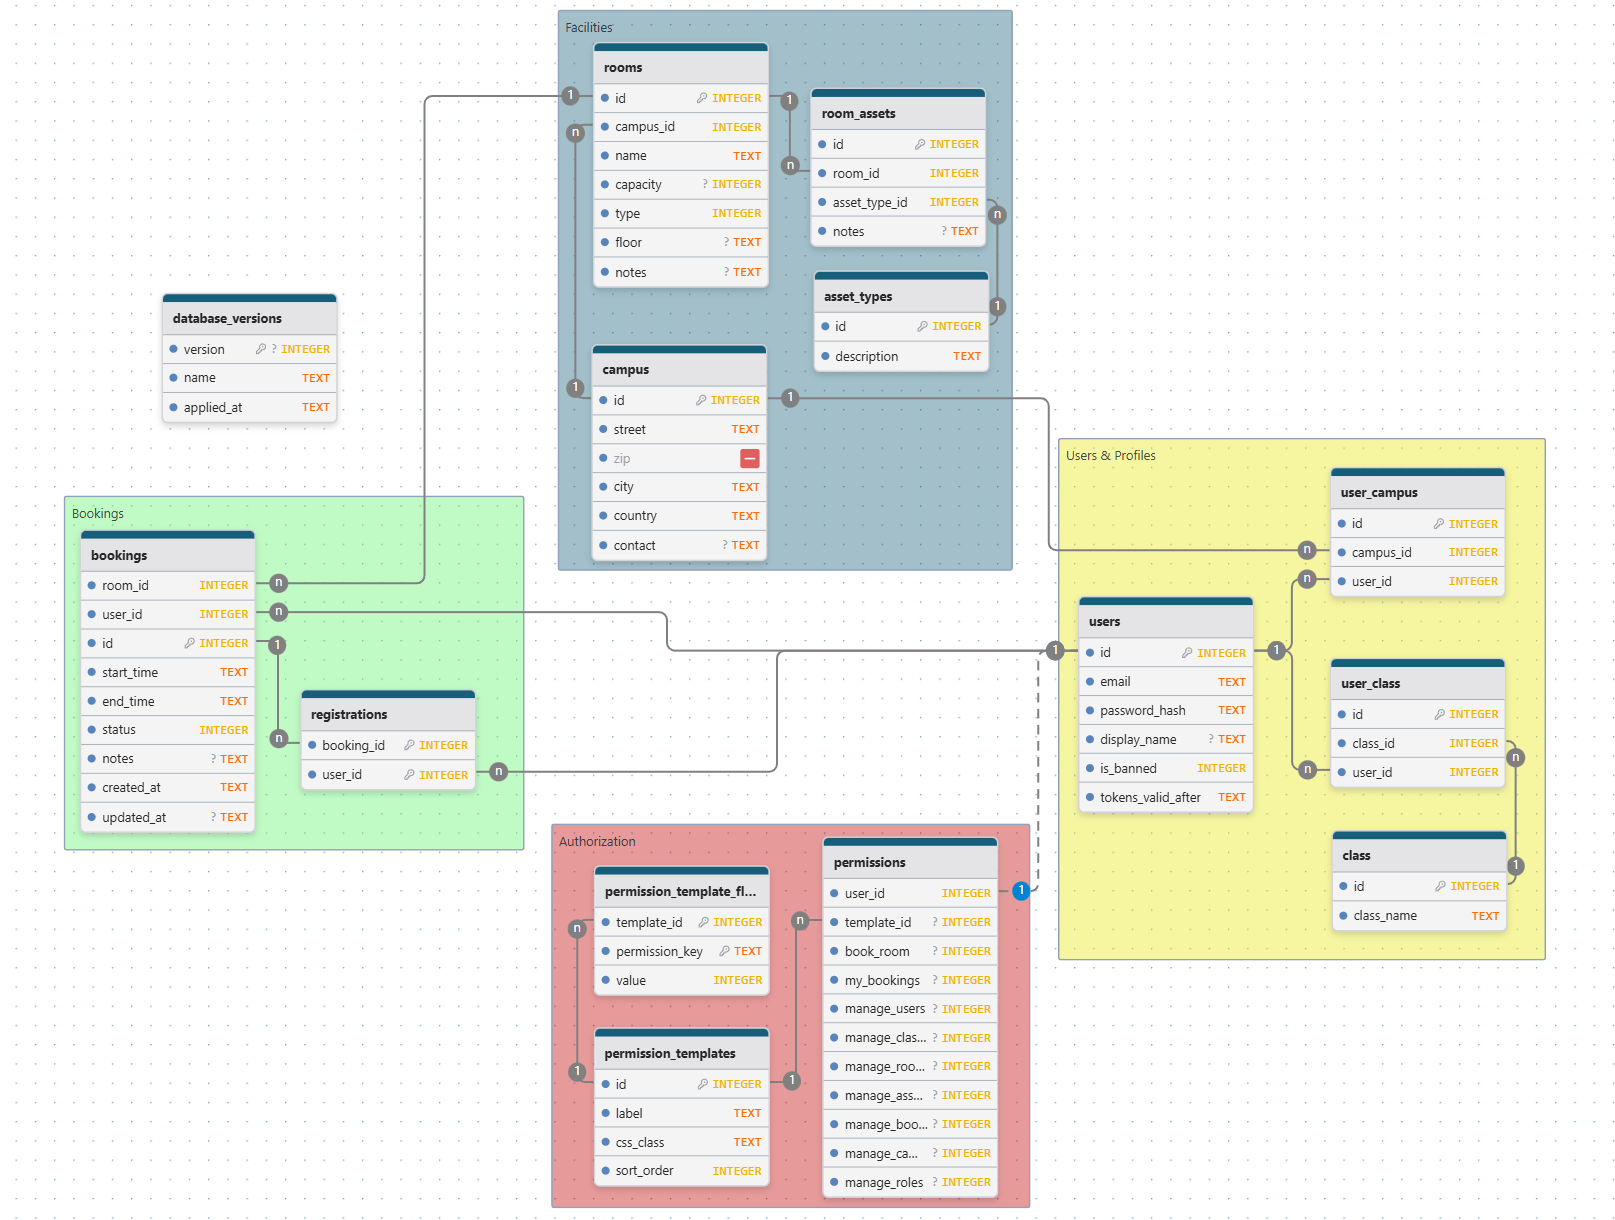
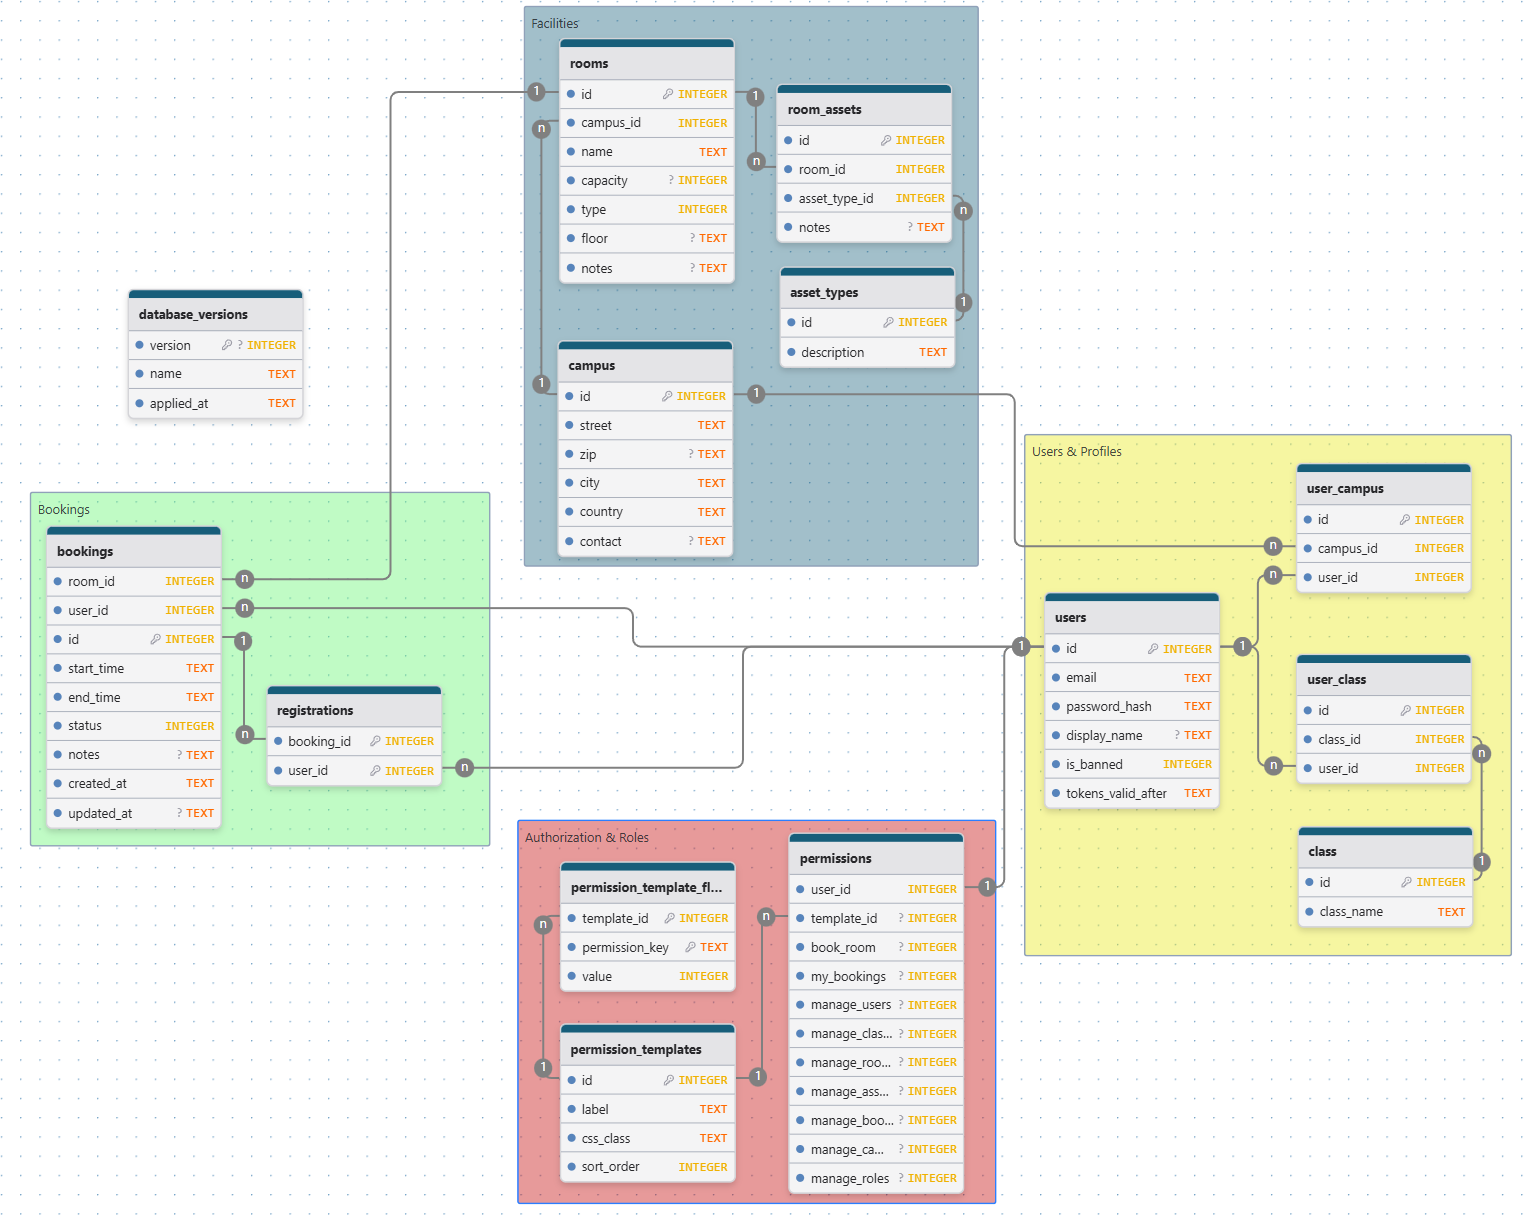
feat: Update database documentation and replace permissions management image

Changed region(s): [[0.0, 0.0, 0.9974, 1.0], [0.0623, 0.2132, 0.2182, 0.3654]]

diff --git a/Backend/_docs/details/DATABASE_DOC.md b/Backend/_docs/details/DATABASE_DOC.md
@@ -31,77 +31,5 @@
 ## SQL Schema
 
 ```sql
-PRAGMA foreign_keys = ON;
-
-BEGIN TRANSACTION;
-
--- 1. Users & Auth
-CREATE TABLE IF NOT EXISTS "users"
-(
-    "id"                 INTEGER PRIMARY KEY AUTOINCREMENT NOT NULL,
-    "email"              TEXT                              NOT NULL UNIQUE,
-    "password_hash"      TEXT                              NOT NULL,
-    "display_name"       TEXT,
-    "role"               INTEGER                           NOT NULL, -- 0=Student, 1=Educator, 2=Admin
-    "user_class"              TEXT,
-    "is_banned"          INTEGER                           NOT NULL DEFAULT 0,
-    "tokens_valid_after" DATETIME                                   DEFAULT CURRENT_TIMESTAMP NOT NULL
-);
-
--- 2. Rooms & Equipment
-CREATE TABLE IF NOT EXISTS "rooms"
-(
-    "id"       INTEGER PRIMARY KEY AUTOINCREMENT NOT NULL,
-    "name"     TEXT                              NOT NULL,
-    "capacity" INTEGER,
-    "type"     INTEGER                           NOT NULL,
-    "floor"    TEXT,
-    "address"  TEXT,
-    "notes"    TEXT
-    -- REMOVED: Circular FK to bookings
-);
-
-CREATE TABLE IF NOT EXISTS "asset_types"
-(
-    "id"          INTEGER PRIMARY KEY AUTOINCREMENT NOT NULL,
-    "description" TEXT                              NOT NULL UNIQUE
-);
-
-CREATE TABLE IF NOT EXISTS "room_assets"
-(
-    "id"            INTEGER PRIMARY KEY AUTOINCREMENT NOT NULL, -- Added PK for the specific physical item
-    "asset_type_id" INTEGER                           NOT NULL, -- Renamed from asset_id for clarity
-    "room_id"       INTEGER                           NOT NULL,
-    FOREIGN KEY ("asset_type_id") REFERENCES "asset_types" ("id"),
-    FOREIGN KEY ("room_id") REFERENCES "rooms" ("id") ON DELETE CASCADE
-);
-
--- 3. Bookings & Participants
-CREATE TABLE IF NOT EXISTS "bookings"
-(
-    "id"         INTEGER PRIMARY KEY AUTOINCREMENT  NOT NULL,
-    "user_id"    INTEGER                            NOT NULL, -- The Host
-    "room_id"    INTEGER                            NOT NULL,
-    "start_time" DATETIME                           NOT NULL,
-    "end_time"   DATETIME                           NOT NULL,
-    "status"     INTEGER                            NOT NULL,
-    "notes"      TEXT,
-    "created_at" DATETIME DEFAULT CURRENT_TIMESTAMP NOT NULL,
-    "updated_at" DATETIME,
-    FOREIGN KEY ("user_id") REFERENCES "users" ("id"),
-    FOREIGN KEY ("room_id") REFERENCES "rooms" ("id") ON DELETE CASCADE
-);
-
-CREATE TABLE IF NOT EXISTS "registrations"
-(
-    "user_id"    INTEGER NOT NULL,
-    "booking_id" INTEGER NOT NULL,
-    -- Composite Primary Key ensures a user can't register for the same booking twice
-    PRIMARY KEY ("user_id", "booking_id"),
-    FOREIGN KEY ("booking_id") REFERENCES "bookings" ("id") ON DELETE CASCADE,
-    FOREIGN KEY ("user_id") REFERENCES "users" ("id") ON DELETE CASCADE
-);
-
-COMMIT;
 
 ```
